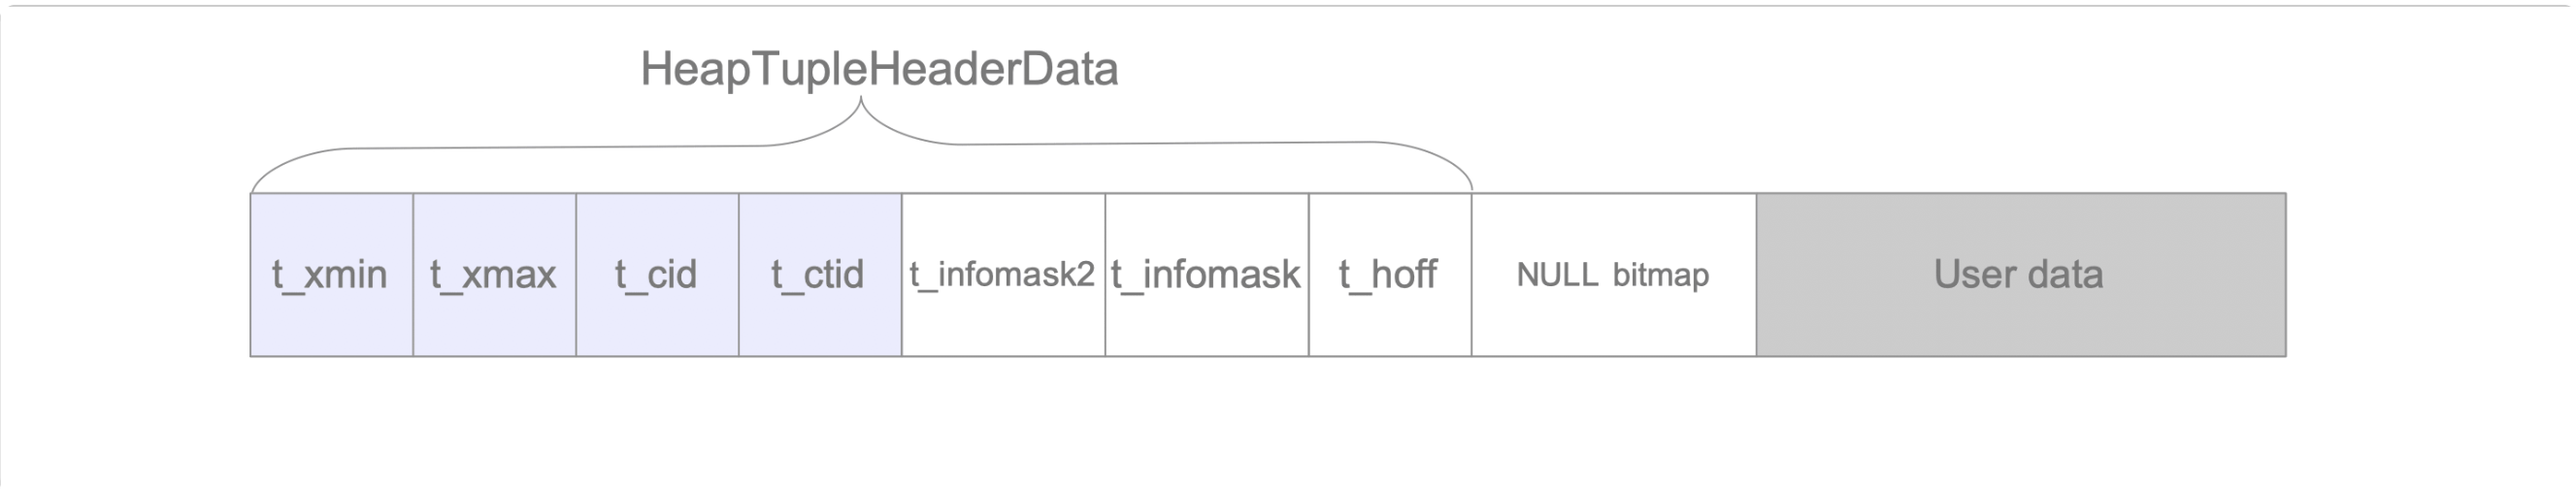
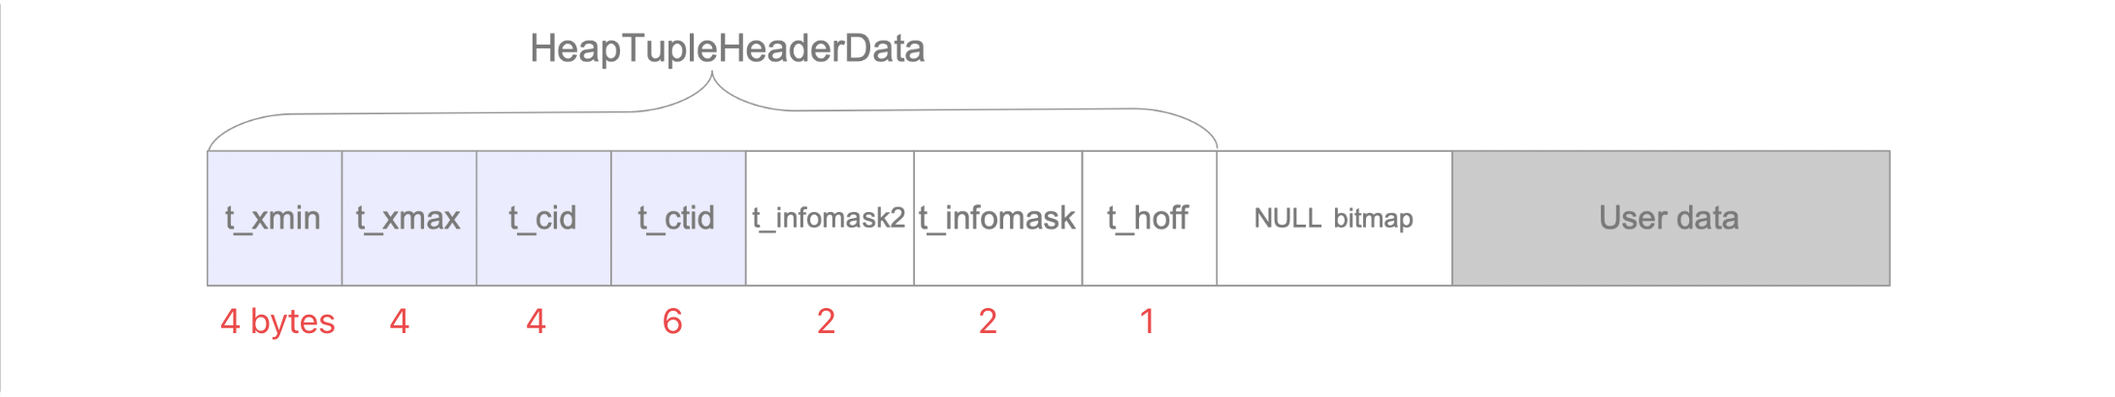
table structure

diff --git a/9_Database/postgreSQL/index_bloat/check_index_bloat.md b/9_Database/postgreSQL/index_bloat/check_index_bloat.md
@@ -345,32 +345,30 @@ ostgres=# select * from rows_data_stats order by idxoid desc limit 10;
 pg_stats描述
 ```
 
-### 步骤5------------------------------------------------------rows_hdr_pdg_stats    
-
+### 步骤5------------------------------------------------------rows_hdr_pdg_stats
 
 解释
 index_tuple_hdr_bm--一个index tuple占用的空间 已经考虑到了对其 tuple头等的长度
 
 ```sql
-      SELECT maxalign, bs, nspname, tblname, idxname, reltuples, relpages, idxoid, fillfactor,
-            ( index_tuple_hdr_bm +
-                maxalign - CASE -- Add padding to the index tuple header to align on MAXALIGN
-                  WHEN index_tuple_hdr_bm%maxalign = 0 THEN maxalign
-                  ELSE index_tuple_hdr_bm%maxalign
-                END
-              + nulldatawidth + maxalign - CASE -- Add padding to the data to align on MAXALIGN
-                  WHEN nulldatawidth = 0 THEN 0
-                  WHEN nulldatawidth::integer%maxalign = 0 THEN maxalign
-                  ELSE nulldatawidth::integer%maxalign
-                END
-            )::numeric AS nulldatahdrwidth, pagehdr, pageopqdata, is_na
-            -- , index_tuple_hdr_bm, nulldatawidth -- (DEBUG INFO)
-      FROM  rows_data_stats;
+SELECT maxalign, bs, nspname, tblname, idxname, reltuples, relpages, idxoid, fillfactor,
+( index_tuple_hdr_bm + maxalign -
+    CASE -- Add padding to the index tuple header to align on MAXALIGN
+        WHEN index_tuple_hdr_bm%maxalign = 0 THEN maxalign
+        ELSE index_tuple_hdr_bm%maxalign
+    END
+    + nulldatawidth + maxalign - CASE -- Add padding to the data to align on MAXALIGN
+        WHEN nulldatawidth = 0 THEN 0
+        WHEN nulldatawidth::integer%maxalign = 0 THEN maxalign
+        ELSE nulldatawidth::integer%maxalign
+    END
+)::numeric AS nulldatahdrwidth, pagehdr, pageopqdata, is_na -- , index_tuple_hdr_bm, nulldatawidth -- (DEBUG INFO)
+FROM  rows_data_stats;
+```
 
-
-
+```sql
 --创建视图
-create view rows_hdr_pdg_stats as 
+create view rows_hdr_pdg_stats as
 SELECT maxalign, bs, nspname, tblname, idxname, reltuples, relpages, idxoid, fillfactor,
             ( index_tuple_hdr_bm +
                 maxalign - CASE -- Add padding to the index tuple header to align on MAXALIGN

diff --git a/9_Database/postgreSQL/structure/table_structure.md b/9_Database/postgreSQL/structure/table_structure.md
@@ -22,11 +22,13 @@ Heap tuples in table pages are classified as a usual data tuple and a TOAST tupl
 A heap tuple comprises three parts: **the HeapTupleHeaderData structure**, **NULL bitmap**, and **user data**
 
 ![33](../../../Image/database/33.png)
+![38](../../../Image/database/38.png)
 
-* t_xmin holds the txid of the transaction that inserted this tuple.
+* t_xmin holds the [txid](https://www.interdb.jp/pg/pgsql05.html#_5.1.) of the transaction that inserted this tuple.
 * t_xmax holds the txid of the transaction that deleted or updated this tuple. If this tuple has not been deleted or updated, t_xmax is set to 0, which means INVALID.
 * t_cid holds the command id (cid), which means how many SQL commands were executed before this command was executed within the current transaction beginning from 0. For example, assume that we execute three INSERT commands within a single transaction: 'BEGIN; INSERT; INSERT; INSERT; COMMIT;'. If the first command inserts this tuple, t_cid is set to 0. If the second command inserts this, t_cid is set to 1, and so on.
 * t_ctid holds the tuple identifier (tid) that points to itself or a new tuple. tid, described in Section 1.3, is used to identify a tuple within a table. When this tuple is updated, the t_ctid of this tuple points to the new tuple; otherwise, the t_ctid points to itself.
+* NULL BITMAP: it is 1 byte (8 bits) for recording 8 columns
 
 ## reference
 
